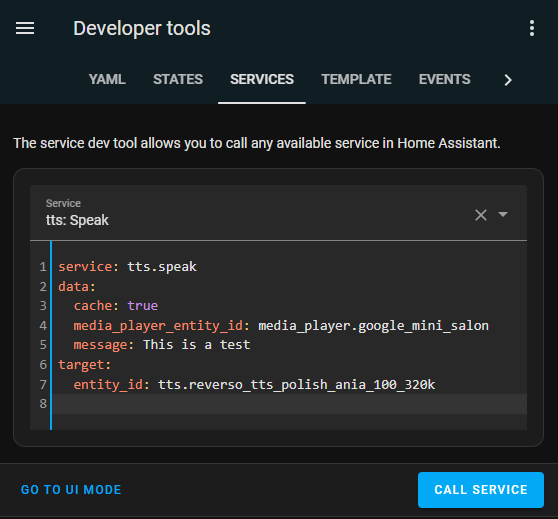
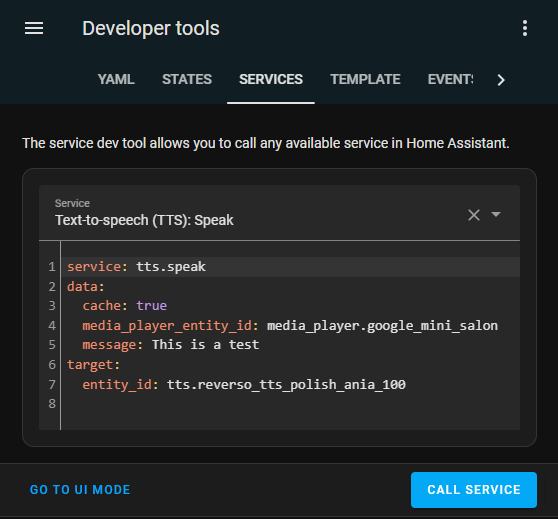
bitrate fix

diff --git a/custom_components/reversotts/tts.py b/custom_components/reversotts/tts.py
@@ -23,15 +23,12 @@ from homeassistant.helpers.typing import ConfigType, DiscoveryInfoType
 from homeassistant.util import slugify
 
 from .const import (
-    CONF_BITRATE,
     CONF_PITCH,
     DEFAULT_BITRATE,
     DEFAULT_LANG,
     DEFAULT_PITCH,
-    BITRATE_OPTIONS,
     SUPPORT_LANGUAGES,
     SUPPORT_OPTIONS,
-    BITRATE_OPTIONS,
 )
 
 _LOGGER = logging.getLogger(__name__)
@@ -40,7 +37,6 @@ PLATFORM_SCHEMA = TTS_PLATFORM_SCHEMA.extend(
     {
         vol.Optional(CONF_LANG, default=DEFAULT_LANG): vol.In(SUPPORT_LANGUAGES),
         vol.Optional(CONF_PITCH, default=DEFAULT_PITCH): str,
-        vol.Optional(CONF_BITRATE, default=DEFAULT_BITRATE): vol.In(BITRATE_OPTIONS),
     }
 )
 
@@ -55,7 +51,6 @@ async def async_get_engine(
         hass,
         config[CONF_LANG],
         config[CONF_PITCH],
-        config[CONF_BITRATE],
     )
 
 
@@ -67,8 +62,7 @@ async def async_setup_entry(
     """Set up Reverso speech platform via config entry."""
     default_language = config_entry.data[CONF_LANG]
     default_pitch = config_entry.data[CONF_PITCH]
-    default_bitrate = config_entry.data[CONF_BITRATE]
-    async_add_entities([ReversoTTSEntity(config_entry, default_language, default_pitch, default_bitrate)])
+    async_add_entities([ReversoTTSEntity(config_entry, default_language, default_pitch, DEFAULT_BITRATE)])
 
 
 class ReversoTTSEntity(TextToSpeechEntity):
@@ -81,7 +75,7 @@ class ReversoTTSEntity(TextToSpeechEntity):
         self._bitrate = bitrate
 
         self._attr_name = f"Reverso TTS {SUPPORT_LANGUAGES[self._lang]}"
-        self.entity_id = f"tts.{slugify(self._attr_name)}_{self._pitch}_{self._bitrate}"
+        self.entity_id = f"tts.{slugify(self._attr_name)}_{self._pitch}"
         self._attr_unique_id = config_entry.entry_id
 
     @property

diff --git a/custom_components/reversotts/config_flow.py b/custom_components/reversotts/config_flow.py
@@ -10,21 +10,17 @@ from homeassistant.components.tts import CONF_LANG
 from homeassistant.config_entries import ConfigFlow, ConfigFlowResult
 
 from .const import (
-    CONF_BITRATE,
     CONF_PITCH,
-    DEFAULT_BITRATE,
     DEFAULT_LANG,
     DEFAULT_PITCH,
     DOMAIN,
     SUPPORT_LANGUAGES,
-    BITRATE_OPTIONS,
 )
 
 STEP_USER_DATA_SCHEMA = vol.Schema(
     {
         vol.Optional(CONF_LANG, default=DEFAULT_LANG): vol.In(SUPPORT_LANGUAGES),
         vol.Optional(CONF_PITCH, default=DEFAULT_PITCH): str,
-        vol.Optional(CONF_BITRATE, default=DEFAULT_BITRATE): vol.In(BITRATE_OPTIONS),
     }
 )
 
@@ -43,7 +39,6 @@ class ReversoConfigFlow(ConfigFlow, domain=DOMAIN):
                 {
                     CONF_LANG: user_input[CONF_LANG],
                     CONF_PITCH: user_input[CONF_PITCH],
-                    CONF_BITRATE: user_input[CONF_BITRATE],
                 }
             )
             return self.async_create_entry(
@@ -61,6 +56,5 @@ class ReversoConfigFlow(ConfigFlow, domain=DOMAIN):
             data={
                 CONF_LANG: DEFAULT_LANG,
                 CONF_PITCH: DEFAULT_PITCH,
-                CONF_BITRATE: DEFAULT_BITRATE,
             },
         )

diff --git a/custom_components/reversotts/const.py b/custom_components/reversotts/const.py
@@ -7,9 +7,8 @@ CONF_PITCH = "pitch"
 CONF_BITRATE = "bitrate"
 DEFAULT_LANG = "Sharon-US-English"
 DEFAULT_PITCH = "100"
-DEFAULT_BITRATE = "128k"
+DEFAULT_BITRATE = "128"
 SUPPORT_OPTIONS = ["pitch", "bitrate"]
-BITRATE_OPTIONS = ["22k", "96k", "128k", "192k", "320k"]
 
 SUPPORT_LANGUAGES = {
     "Leila-Arabic": "Arabic - Leila",

diff --git a/README.md b/README.md
@@ -161,9 +161,7 @@ default: "`100`"
 
 #### Bitrate
 
-The `bitrate` for the sound quality. The supported bitrate values are `22k, 96k, 128k, 192k, 320k`.
-
-default: "`128k`"
+The `bitrate` for the sound quality is fixed at 128 kbps.
 
 ## Usage examples
 
@@ -192,5 +190,5 @@ There are several ways how to use TTS service.
           media_player_entity_id: media_player.google_mini_salon
           message: This is a test
         target:
-          entity_id: tts.reverso_tts_polish_ania_100_320k
+          entity_id: tts.reverso_tts_polish_ania_100
   ```
